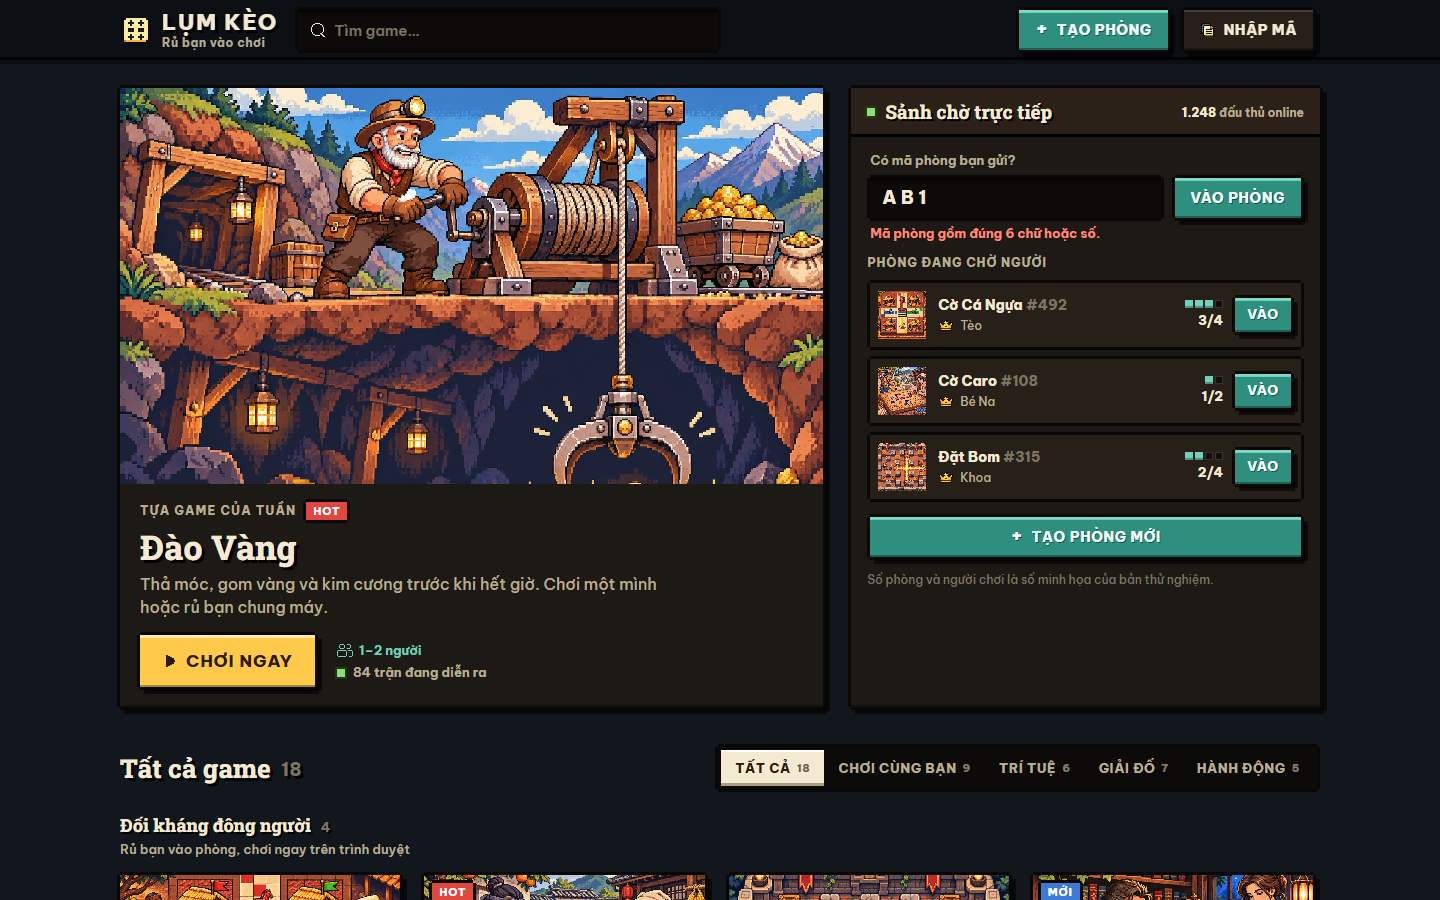
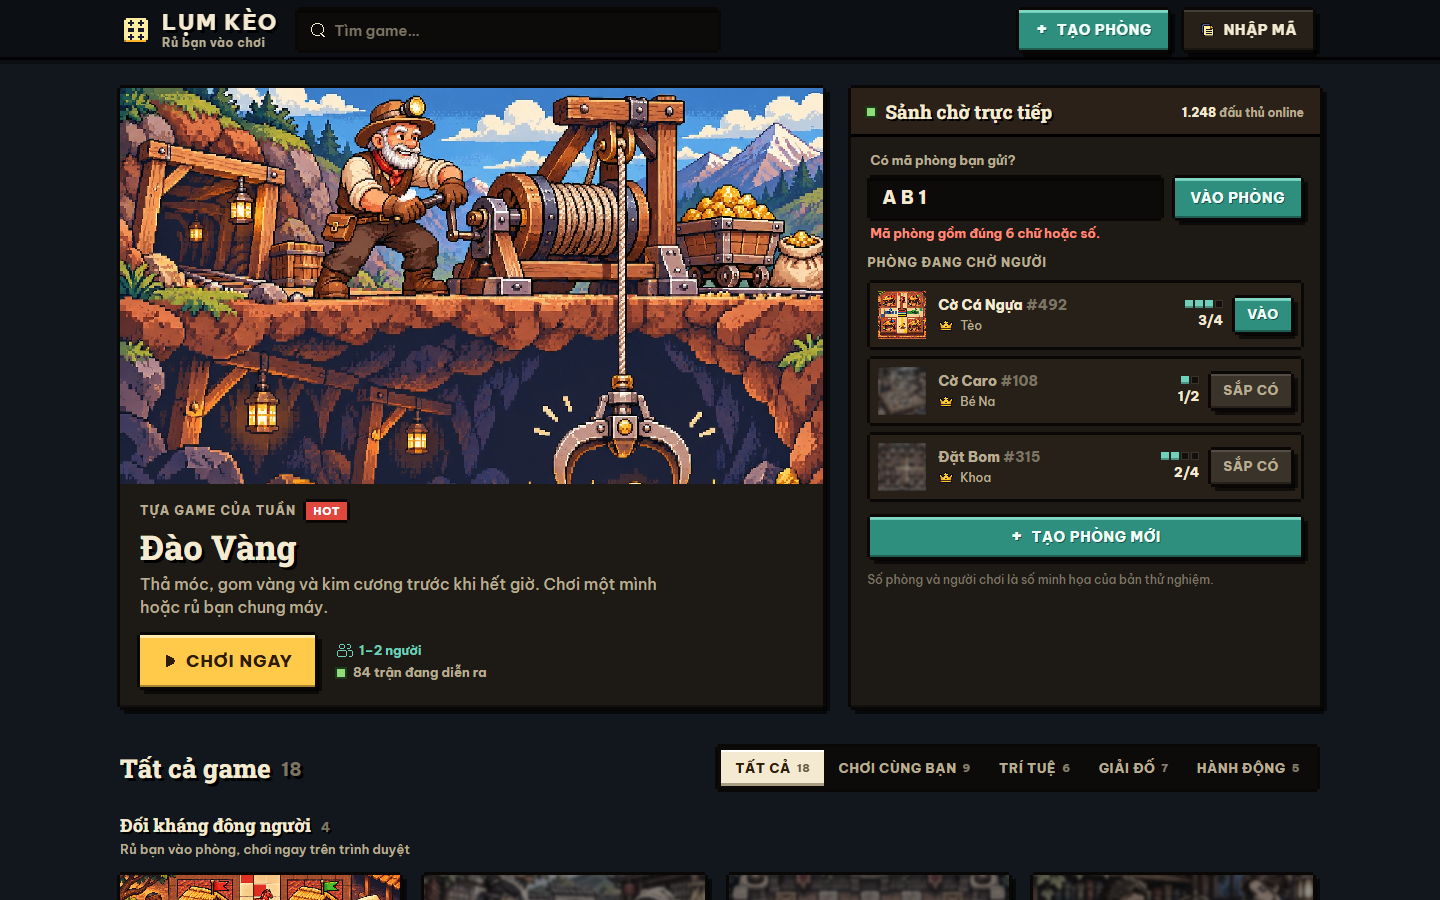
Trang chủ: mở link Nối Thú + nhãn "Đang cập nhật" và ảnh mờ cho game chưa có bản chơi
- games.js: thêm url ../games/noi-thu/ (trước đó thẻ mở trang chờ play.html)
- Thẻ game chưa có url (lưới, kệ Đối kháng, sảnh chờ, Chơi tiếp): ảnh mờ xám + nhãn
  "Đang cập nhật"; nút "Rủ bạn"/"Vào" đổi thành "Sắp có"; bấm vẫn vào trang chờ
- Chơi tiếp chỉ ghi game chơi được
- check.mjs: 62/62 PASS

diff --git a/prototype/homepage/app.js b/prototype/homepage/app.js
@@ -19,6 +19,11 @@
   function byId(id) { return GAMES.filter(function (g) { return g.id === id; })[0]; }
   // Game đã có bản chơi thật thì mở thẳng (field url trong games.js); game chưa làm vẫn vào trang chờ play.html.
   function href(g) { return g.url || "play.html?game=" + encodeURIComponent(g.id); }
+  // Game chưa có bản chơi thật → thẻ mờ ảnh + nhãn "Đang cập nhật".
+  function soon(g) { return !g.url; }
+  function soonCls(g) { return soon(g) ? " is-soon" : ""; }
+  var SOON = '<span class="soon" aria-hidden="true">Đang cập nhật</span>';
+  function soonSr(g) { return soon(g) ? '<span class="sr-only"> (đang cập nhật)</span>' : ""; }
   var duelIds = DUELS.map(function (d) { return d.id; });
 
   // Icon người chơi pixel 16×16 (vẽ bằng ô vuông, không nét cong).
@@ -30,6 +35,7 @@
     return '<img src="' + (src || g.thumb) + '" alt="" loading="lazy" decoding="async" />';
   }
   function badgeHTML(g) {
+    if (soon(g)) return SOON;
     if (!g.badge) return "";
     return '<span class="badge badge--' + (g.badge === "Hot" ? "hot" : "new") + '">' + g.badge + "</span>";
   }
@@ -41,7 +47,7 @@
 
   // ---------- TẦNG 1: game tiêu điểm ----------
   function heroHTML(g) {
-    return '<a class="card hero px-panel" href="' + href(g) + '" data-id="' + g.id + '">' +
+    return '<a class="card hero px-panel' + soonCls(g) + '" href="' + href(g) + '" data-id="' + g.id + '">' +
       '<span class="hero__art">' + imgHTML(g, FEAT.heroImage) + "</span>" +
       '<span class="hero__info">' +
         '<span class="hero__tags"><span class="kicker">Tựa game của tuần</span>' + badgeHTML(g) + "</span>" +
@@ -69,21 +75,21 @@
   function renderRooms() {
     $("rooms").innerHTML = ROOMS.map(function (r) {
       var g = byId(r.game); if (!g) return "";
-      return '<li class="room">' +
+      return '<li class="room' + soonCls(g) + '">' +
         '<span class="room__art">' + imgHTML(g) + "</span>" +
         '<span class="room__info"><span class="room__name">' + g.name + ' <span class="room__no">#' + r.no + "</span></span>" +
           '<span class="room__host"><img src="assets/ui/icon-chu-phong.png" alt="" width="16" height="16" />' + esc(r.host) + "</span></span>" +
         '<span class="room__side">' + seatsHTML(r) + '<span class="room__cnt">' + r.have + "/" + r.max + '<span class="sr-only"> người</span></span></span>' +
-        '<a class="btn btn--teal btn--sm room__go" href="' + roomHref(r) + '" data-room="' + r.code + '" aria-label="Vào phòng ' + g.name + " số " + r.no + ", " + r.have + " trên " + r.max + ' người">Vào</a>' +
+        '<a class="btn btn--teal btn--sm room__go" href="' + roomHref(r) + '" data-room="' + r.code + '" aria-label="Vào phòng ' + g.name + " số " + r.no + ", " + r.have + " trên " + r.max + ' người' + (soon(g) ? ", đang cập nhật" : "") + '">' + (soon(g) ? "Sắp có" : "Vào") + "</a>" +
       "</li>";
     }).join("");
   }
 
   // ---------- TẦNG 2: chơi tiếp ----------
   function miniHTML(g) {
-    return '<a class="card mini" href="' + href(g) + '" data-id="' + g.id + '">' +
+    return '<a class="card mini' + soonCls(g) + '" href="' + href(g) + '" data-id="' + g.id + '">' +
       '<span class="mini__art">' + imgHTML(g) + "</span>" +
-      '<span class="mini__name">' + g.name + "</span></a>";
+      '<span class="mini__name">' + g.name + soonSr(g) + "</span></a>";
   }
   function getRecent() {
     try { return JSON.parse(localStorage.getItem(RECENT_KEY)) || []; } catch (e) { return []; }
@@ -103,18 +109,18 @@
   // Thẻ Đối kháng (3:2): huy hiệu nhiều người + số phòng đang mở + nút "Rủ bạn".
   function duelHTML(g) {
     var d = DUELS.filter(function (x) { return x.id === g.id; })[0] || {};
-    return '<a class="card duel px-panel" href="' + href(g) + '" data-id="' + g.id + '">' +
+    return '<a class="card duel px-panel' + soonCls(g) + '" href="' + href(g) + '" data-id="' + g.id + '">' +
       '<span class="duel__art">' + imgHTML(g) + badgeHTML(g) +
         '<span class="duel__mp">' + pxIcon(P2) + "Nhiều người</span></span>" +
-      '<span class="duel__body"><span class="duel__text"><h3 class="card__name">' + g.name + "</h3>" +
+      '<span class="duel__body"><span class="duel__text"><h3 class="card__name">' + g.name + soonSr(g) + "</h3>" +
         '<span class="duel__meta">' + metaHTML(g) + '<span class="duel__rooms"><span class="live" aria-hidden="true"></span>' + (d.rooms || 0) + " phòng mở</span></span></span>" +
-        '<span class="btn btn--teal btn--sm" aria-hidden="true">Rủ bạn</span></span></a>';
+        '<span class="btn btn--sm ' + (soon(g) ? "btn--off" : "btn--teal") + '" aria-hidden="true">' + (soon(g) ? "Sắp có" : "Rủ bạn") + "</span></span></a>";
   }
   // Ô Thư viện chơi nhanh (4:3, gọn).
   function tileHTML(g) {
-    return '<a class="card tile" href="' + href(g) + '" data-id="' + g.id + '">' +
+    return '<a class="card tile' + soonCls(g) + '" href="' + href(g) + '" data-id="' + g.id + '">' +
       '<span class="tile__art">' + imgHTML(g) + badgeHTML(g) + "</span>" +
-      '<span class="tile__body"><h3 class="card__name">' + g.name + "</h3>" + metaHTML(g) + "</span></a>";
+      '<span class="tile__body"><h3 class="card__name">' + g.name + soonSr(g) + "</h3>" + metaHTML(g) + "</span></a>";
   }
 
   function matches(g) {
@@ -168,7 +174,8 @@
   });
   document.addEventListener("click", function (e) {
     var a = e.target.closest("a.card");
-    if (a) pushRecent(a.dataset.id);
+    // Chỉ ghi "chơi tiếp" cho game chơi được thật.
+    if (a && !a.classList.contains("is-soon")) pushRecent(a.dataset.id);
   });
 
   // Mobile: chuyển ô tìm kiếm từ thanh trên xuống đầu trang để thanh trên chỉ còn 1 hàng gọn.

diff --git a/prototype/homepage/games.js b/prototype/homepage/games.js
@@ -1,11 +1,12 @@
 // Danh sách 18 game theo docs/game-catalog-v2.md (thứ tự theo điểm ưu tiên).
 // thumb: 6 game đầu cắt từ concept V4; 12 game còn lại là ảnh thumbnail 4:3 riêng (đã được chủ dự án duyệt). icon/hue giữ làm dự phòng.
 // mode: "solo" | "multi" | "both" — dùng cho bộ lọc "Chơi cùng bạn".
-// url: game đã có bản chơi thật — thẻ game mở thẳng link này thay vì trang chờ play.html (hiện có Đào Vàng và Cờ Cá Ngựa).
+// url: game đã có bản chơi thật — thẻ game mở thẳng link này thay vì trang chờ play.html (hiện có Đào Vàng, Cờ Cá Ngựa, Nối Thú).
+// Game CHƯA có url: thẻ hiện nhãn "Đang cập nhật" + ảnh mờ, bấm vào vẫn mở trang chờ play.html.
 window.GAMES = [
   { id: "co-caro",   name: "Cờ Caro",          cat: "tri-tue",  mode: "multi", players: "2 người", thumb: "assets/thumbs/co-caro.webp",  icon: "caro", badge: "Hot" },
   { id: "ran-san-moi", name: "Rắn Săn Mồi",    cat: "hanh-dong", mode: "both", players: "1–8 người", thumb: "assets/thumbs/ran-san-moi.webp", icon: "snake", hue: 140 },
-  { id: "noi-thu",   name: "Nối Thú",          cat: "giai-do",  mode: "solo",  players: "1 người", thumb: "assets/thumbs/noi-thu.webp",  icon: "paw", badge: "Mới" },
+  { id: "noi-thu",   name: "Nối Thú",          cat: "giai-do",  mode: "solo",  players: "1 người", thumb: "assets/thumbs/noi-thu.webp",  icon: "paw", badge: "Mới", url: "../games/noi-thu/" },
   { id: "dao-vang",  name: "Đào Vàng",         cat: "hanh-dong", mode: "both", players: "1–2 người", thumb: "assets/thumbs/dao-vang.webp", icon: "gold", badge: "Hot", url: "../games/dao-vang/" },
   { id: "noi-tu",    name: "Nối Từ",           cat: "tri-tue",  mode: "multi", players: "2 người", thumb: "assets/thumbs/noi-tu.webp",   icon: "word", badge: "Mới" },
   { id: "ban-bong",  name: "Bắn Bóng Khủng Long", cat: "giai-do", mode: "solo", players: "1 người", thumb: "assets/thumbs/ban-bong.webp", icon: "bubble", hue: 200 },

diff --git a/prototype/homepage/styles.css b/prototype/homepage/styles.css
@@ -73,6 +73,16 @@ input.field { border: 0; border-radius: 0; outline: none; min-width: 0; font: 60
 .badge--hot { background: var(--px-hot); }
 .badge--new { background: var(--px-new); }
 
+/* Game chưa có bản chơi thật: ảnh mờ + nhãn "Đang cập nhật" giữa ảnh */
+.soon { position: absolute; left: 50%; top: 50%; z-index: 2; transform: translate(-50%, -50%); padding: 5px 9px 4px; white-space: nowrap; font: 800 12px/1.2 var(--font-body); letter-spacing: .06em; text-transform: uppercase; color: var(--px-ink); background: #2a231b; --b: #000; box-shadow: var(--px-border), 3px 3px 0 0 rgba(0,0,0,.5); }
+.tile__art .soon { font-size: 10px; padding: 4px 6px 3px; }
+.is-soon img:not(.room__host img) { filter: grayscale(.75) blur(1.5px) brightness(.6); transform: scale(1.04); }
+.is-soon .card__name, .is-soon .mini__name, .is-soon .room__name { color: var(--px-soft); }
+.is-soon .meta { opacity: .7; }
+.is-soon:hover img:not(.room__host img) { filter: grayscale(.6) blur(1.5px) brightness(.7); }
+.btn--off { color: var(--px-soft); background: #3a332a; --b: #1a1612; }
+.room.is-soon .room__go { color: var(--px-soft); background: #3a332a; --b: #1a1612; text-shadow: none; }
+
 .live { display: inline-block; width: 8px; height: 8px; flex: none; background: var(--px-live); box-shadow: 0 0 0 2px #1c3a17; animation: live 1.2s steps(2) infinite; }
 @keyframes live { 50% { opacity: .35; } }
 
